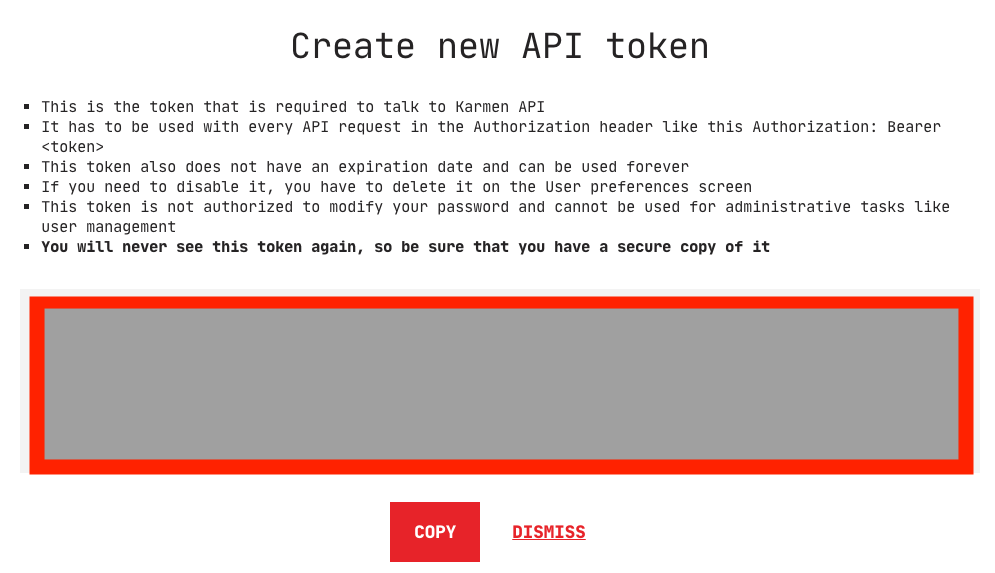
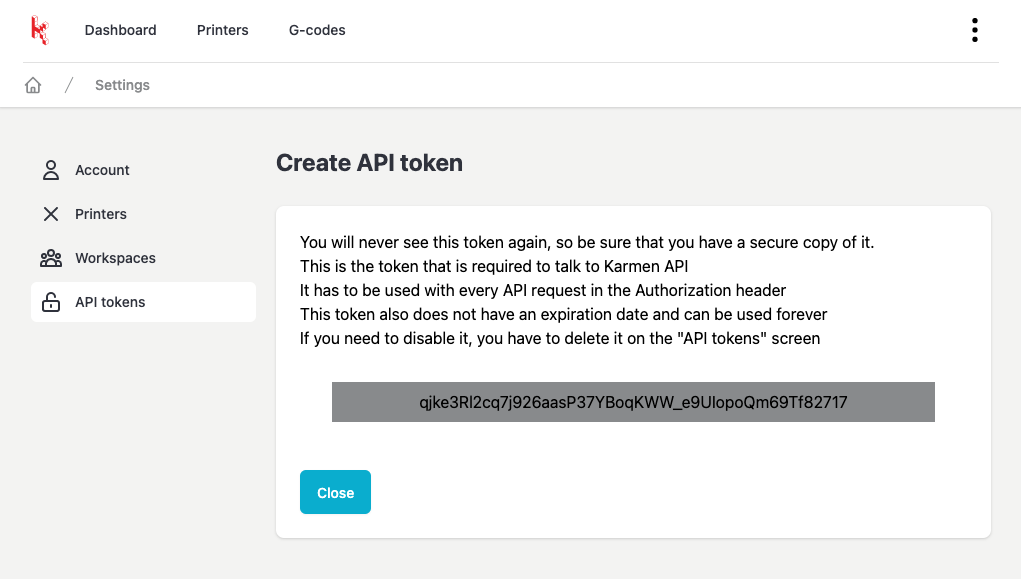
updated prusaslicer-karmen (octoprint) settings

diff --git a/docs/cs/prusaslicer-gcode-upload.md b/docs/cs/prusaslicer-gcode-upload.md
@@ -1,31 +1,48 @@
 # Nastavení PrusaSliceru s Karmen
 
 Pokud používáte ke slicování [PrusaSlicer](https://www.prusa3d.com/prusaslicer/), určitě Vás bude zajímat,
-jakým způsobem můžete nahrát své Gcody z PrusaSliceru přímo do Karmen.
+že můžete posílat své tiskové soubory (Gcodes) z PrusaSliceru přímo do Karmen.
+
+!> Tento návod je vytvořen pro PrusaSlicer ve verzi [2.3.3](https://github.com/prusa3d/PrusaSlicer/releases/tag/version_2.3.3). Pokud máte jinou verzi, některé kroky mohou být odlišné.
+
+## Adresa Octoprint serveru
+
+Aby mohl PrusaSlicer nahrávat soubory přímo do Karmen, budeme v dalších částech návodu potřebovat adresu serveru. Adresu serveru si zobrazíte v nastavení Vašeho účtu.
+
+<borderedImage>![Create API token](_media/prusaslicer-octoprint-upload-url.png ":size=600x295")</borderedImage>
 
 ## Vytvoření API klíče
 
-Aby mohl PrusaSlicer komunikovat s Karmen (odesílát Gcody), musíme si nejdříve v Karmen vygenerovat API klíč.
-API klíč si vytvoříte po přihlášení v Karmen Cloud na stránce [Account Settings > API tokens](https://cloud.karmen.tech/users/me/tab-api-tokens).
+Aby mohl PrusaSlicer komunikovat s Karmen (odesílát Gcody), musíte si nejdříve vygenerovat API klíč.
+API klíč si vytvoříte v nastavení v Karmen Cloud na stránce [Settings > API tokens](https://next.karmen.tech/settings/api-tokens).
 
-Stačí zadat libovolný název klíče a kliknout na tlačítko “CREATE TOKEN”.
+> Tip: Do políčka s názvem klíče zadejte takový text, ze kterého i v budoucnu poznáte, k čemu se daný klíč používá.
 
 <borderedImage>![Create API token](_media/account-create-api-token.png ":size=600x295")</borderedImage>
 
-Následně se zobrazí stránka s klíčem, který si zkopírujte (CTRL+C).
+Následně se zobrazí stránka s klíčem, který budeme potřebovat později - zatím si tedy nechejte tuto stránku otevřenou.
 
 <borderedImage>![Copy API token](_media/account-copy-api-token.png ":size=600x295")</borderedImage>
 
 ## Nastavení PrusaSliceru
 
-V záložce PrinterSettings nastavte následující:
+V záložce "Printer Settings" klikněte na ikonku nastavení tiskárny:
 
-- Hostname: ```https://cloud.karmen.tech/api/octoprint-emulator/```
-- API Key: ```klíč, který jste si zkopírovali v předchozím kroku```
+<borderedImage>![Prusaslicer Print Host Upload Settings 1](_media/prusaslicer-print-host-upload-settings-1.png ":size=600x295")</borderedImage>
 
-<borderedImage>![Prusaslicer Print Host Upload Settings](_media/prusaslicer-print-host-upload-settings.png ":size=600x295")</borderedImage>
+V okně s nastavením tiskárny pak zadejte následující:
 
-Nyní, když mám vyslicovaný model, tak vidím tlačítko odeslání tisku do Karmen:
+- Host Type: ```OctoPrint ```
+- Hostname: ```viz Octoprint Upload Url v návodu výše```
+- API Key: ```klíč, který jste si vytvořili v jednom z předchozích kroků```
+
+<borderedImage>![Prusaslicer Print Host Upload Settings 2](_media/prusaslicer-print-host-upload-settings-2.png ":size=600x295")</borderedImage>
+
+> Tip: Pro ověření správné komunikace mezi PrusaSlicerem a Karmen, klikněte v nastavovacím dialogu na tlačítko test.
+
+## Odeslání Gcodu do Karmen
+
+V tuto chvíli byste měli mít nastaven PrusaSlicer tak, že je schopen komunikovat s Karmen. Ve chvíli, kdy máte připraven model pro tisk, tak se v pravém dolním rohu PrusaSliceru objeví nové tlačítko, pro nahrání Gcodu přímo do Karmen.
 
 <borderedImage>![Prusaslicer Send To Karmen Button](_media/prusaslicer-send-to-karmen-button.png ":size=600x295")</borderedImage>
 

diff --git a/docs/cs/README.md b/docs/cs/README.md
@@ -1,4 +1,4 @@
-# Karmen
+# Vítejte, jak Vám můžeme pomoci?
 
 Na této stránce naleznete dokumentaci ke Karmen v českém jazyce. Více informací
 naleznete v [anglické verzi]().
@@ -9,9 +9,9 @@ naleznete v [anglické verzi]().
 - [Připojení Pillu k počítači s operačním systémem Windows](cs/windows.md)
 
 
-## Podpora {docsify-ignore}
+## Nenalezli jste odpověď na svůj dotaz? {docsify-ignore}
 
-Pokud budete nějaké dotazy, kontaktujte nás některým z dalších způsobů, jsme Vám plně k dispozici.
+Kontaktujte nás některou z níže uvedených možností:
 
 - [Gitter](https://gitter.im/fragaria/karmen)
 - [Facebook](https://www.facebook.com/karmen3D/)
